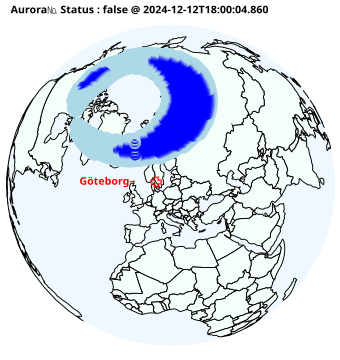
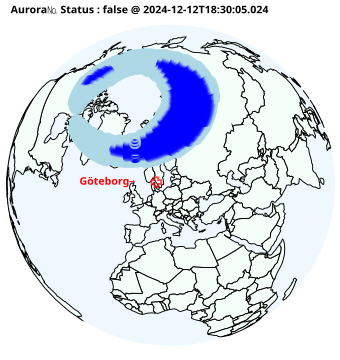
20241212183018 added aur.html

diff --git a/aur.html b/aur.html
@@ -7,6 +7,6 @@
 <body>
     <h1>Aurora Watch</h1>
     <img src="a.png" alt="Aurora Image" style="width:100%;max-width:600px;">
-    <p>Aurora Level 🌌= (0.0) was observed. (2024-12-12T18:00:04.860)</p>
+    <p>Aurora Level 🌌= (0.0) was observed. (2024-12-12T18:30:05.024)</p>
 </body>
 </html>
